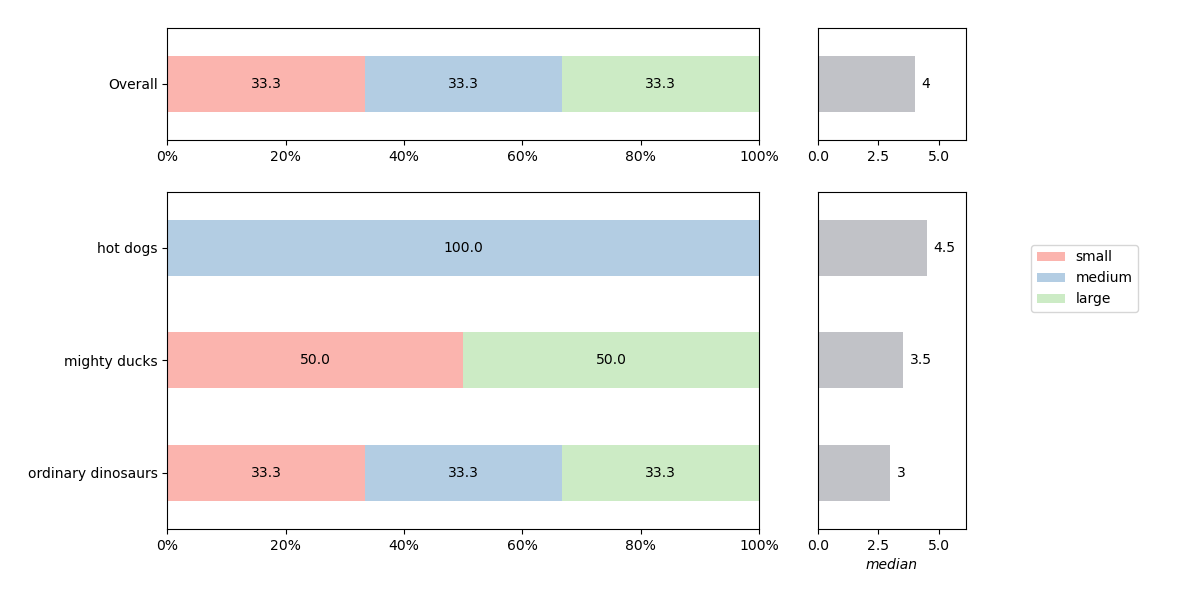
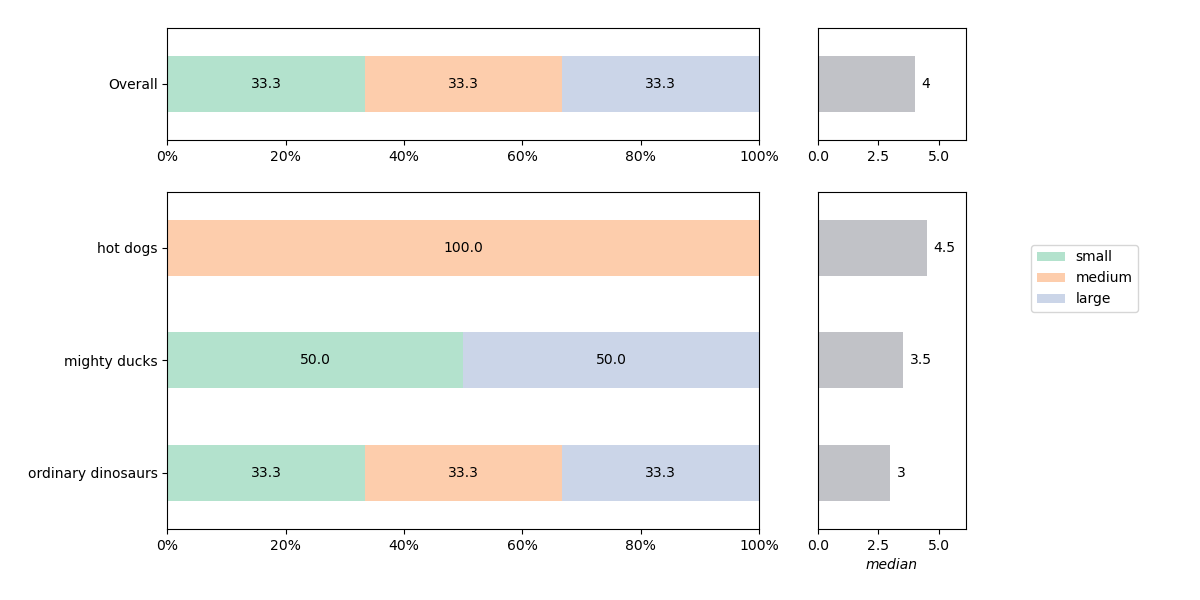
coloring update

diff --git a/barkeep/core.py b/barkeep/core.py
@@ -3,10 +3,12 @@ import matplotlib.pyplot as plt
 import pandas as pd
 import pathlib
 
+from typing import Optional
+
 from barkeep.axparse import LegendOutAxparser, AxMap
 from barkeep.aggregate import Aggregator
 from barkeep.grid import GridConfigFactory, get_grid_recipe
-from barkeep.colors import get_colors
+from barkeep.colors import get_cmap_colors
 from barkeep.components import percent, average, legend
 from barkeep.datasets import test_df
 
@@ -24,24 +26,20 @@ class GridPlot:
         self.axmap = axmap
         self.fig = figure
         self.legend_ax = legend_ax
-        self.colors = None
 
+        # Extract greatest avg for xlim on avg plot
         if aggregator.group_avg is not None:
             self.greatest_avg = round(aggregator.group_avg.iloc[:, 0].max(), 1)
 
-    def set_colors_by_cmap(self, cmap: str) -> None:
-        self.colors = get_colors(
-            n_colors=self.aggregator.n_count_categories,
-            cmap=cmap
-        )
-
-    def show(self, save_path: str | pathlib.Path = None):
+    def show(self,
+             save_path: str | pathlib.Path = None,
+             **kwargs):
 
         for key, ax in self.axmap.items():
             if ax is not None:
                 data = self.aggregator.__getattribute__(key)
                 if 'pct' in key:
-                    percent.plot(data, ax=ax, color=self.colors)
+                    percent.plot(data, ax=ax, **kwargs)
                     # Extract legend handles & labels from group_pct
                     if 'group' in key:
                         handles, labels = ax.get_legend_handles_labels()
@@ -83,7 +81,8 @@ def plot(df: pd.DataFrame, *,
          average_type: str = 'mean',
          overall: bool = True,
          save_path: str | pathlib.Path = None,
-         cmap: str = 'Pastel1',
+         cmap: str = 'Pastel2',
+         n_colors_in_cmap: Optional[int] = 8,
          colors: list = None):
 
     agg = Aggregator(
@@ -106,12 +105,17 @@ def plot(df: pd.DataFrame, *,
                   figure=parser.get_figure(),
                   legend_ax=parser.get_legend_ax())
 
-    if cmap is not None:
-        gp.set_colors_by_cmap(cmap)
     if colors is not None:
-        gp.colors = colors
+        gp.show(save_path, color=colors)
 
-    gp.show(save_path)
+    elif n_colors_in_cmap is not None:
+        colors = get_cmap_colors(length=gp.aggregator.n_count_categories,
+                                 n_colors_in_cmap=n_colors_in_cmap,
+                                 name=cmap)
+        gp.show(save_path, color=colors)
+
+    else:
+        gp.show(save_path, cmap=cmap)
 
 
 def main():

diff --git a/barkeep/colors.py b/barkeep/colors.py
@@ -51,23 +51,6 @@ def get_cmap_colors(length: Optional[int] = None,
     return result
 
 
-N_COLORS_IN_CMAP = {
-    'Pastel1': 9,
-    'Pastel2': 8
-}
-
-
-def get_colors(n_colors: int,
-               cmap: str = 'Pastel1'):
-    """Convenience-wrapper for get_cmap_colors."""
-
-    colors = get_cmap_colors(n_colors,
-                             n_colors_in_cmap=N_COLORS_IN_CMAP[cmap],
-                             name=cmap)
-
-    return colors
-
-
 def normalize_rgb(rgb: Tuple[int, int, int],
                   alpha: float = None) -> Tuple[float]:
     """Normalize 255-based RGB scores to values between 0 and 1.
